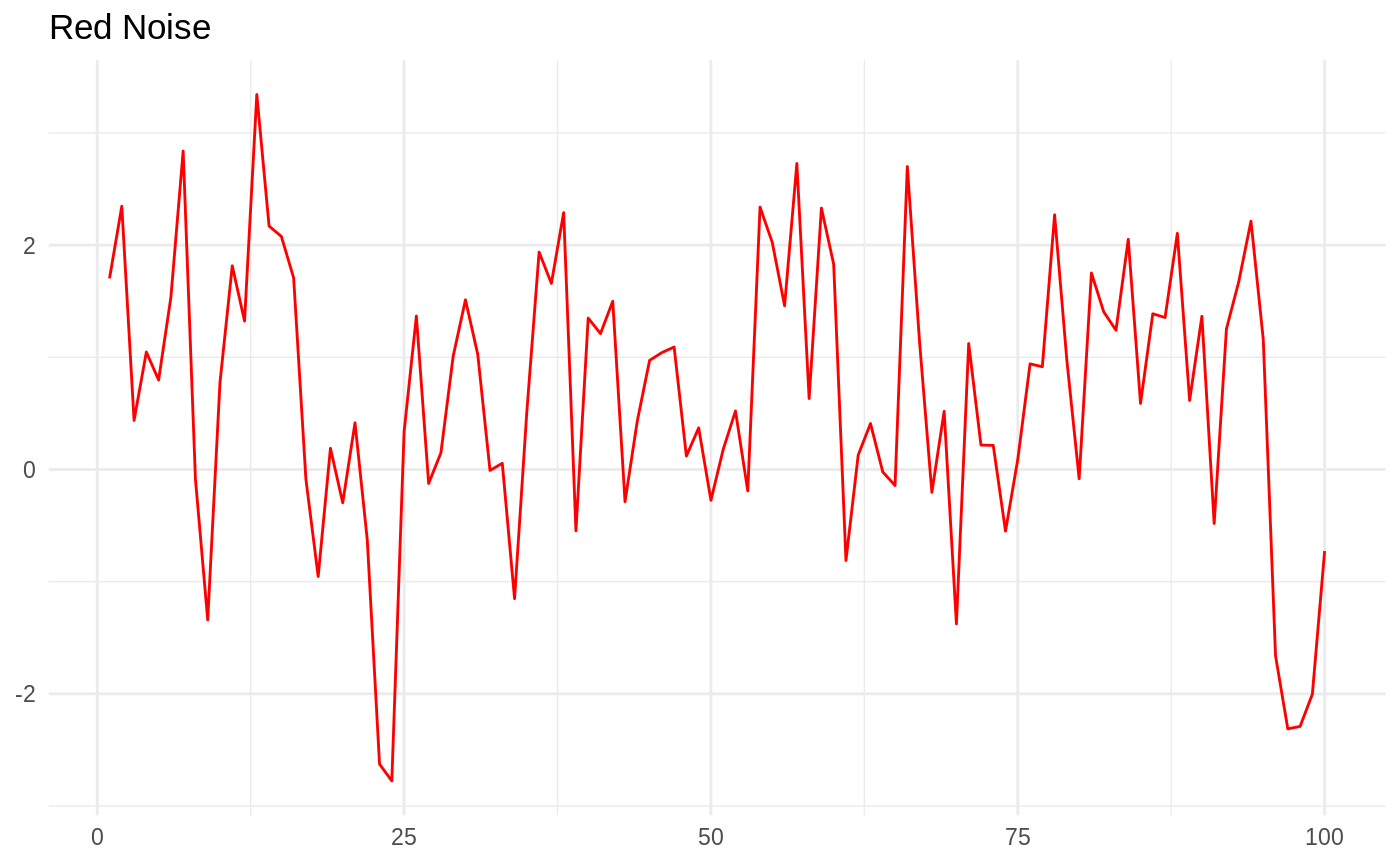
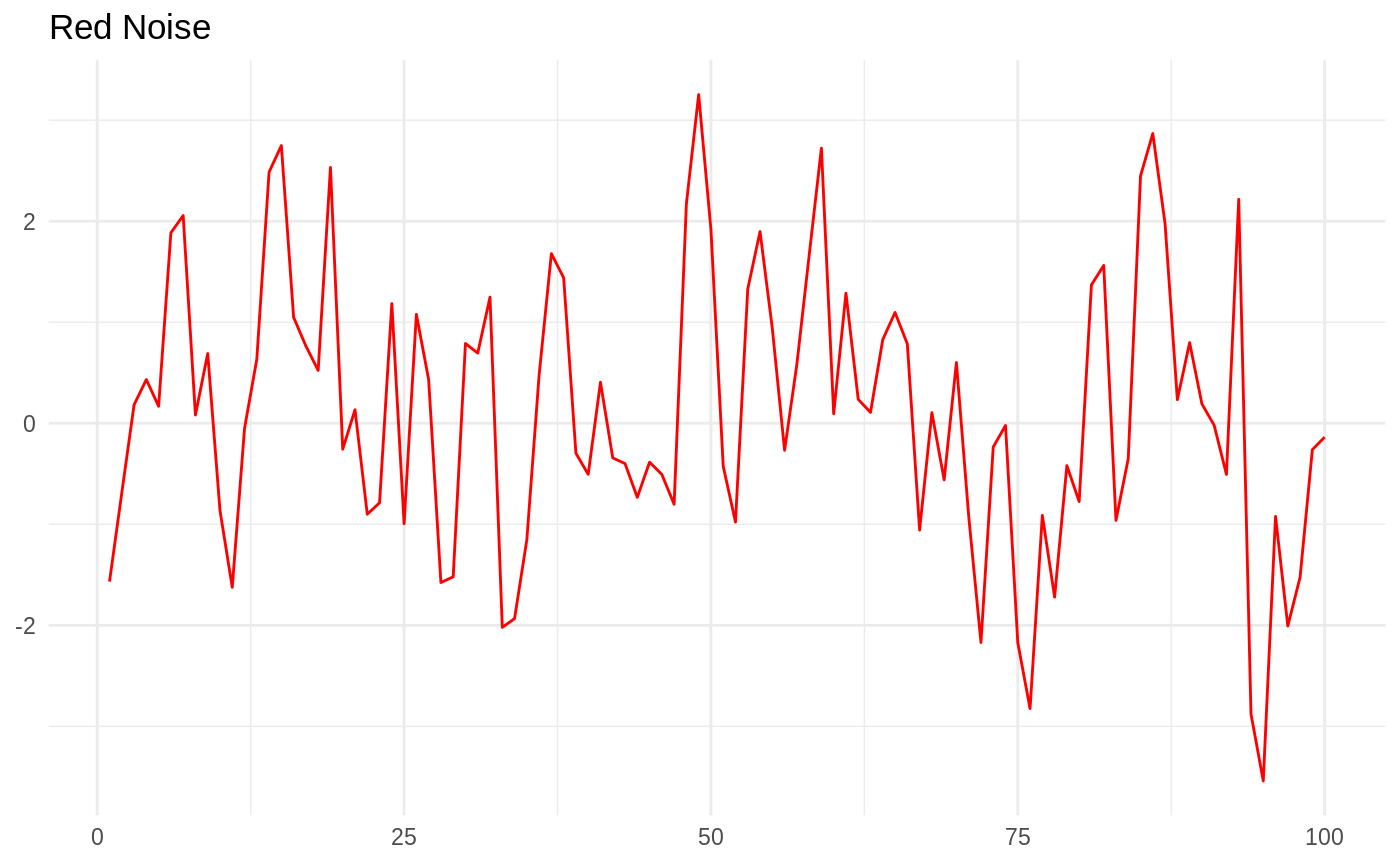
Deploy japilo/colorednoise to github.com/japilo/colorednoise.git:gh-pages

diff --git a/articles/noise.html b/articles/noise.html
@@ -111,12 +111,12 @@
 <p>To show you how you can use this package to simulate and analyze colored noise, I will present a problem for us to solve. Let’s say we want to find out whether our estimates of temporal autocorrelation are biased when the standard deviation of the colored noise is high. First, let’s use the <code>raw_noise</code> function to generate some colored noise with high variance.</p>
 <div class="sourceCode" id="cb1"><pre class="sourceCode r"><code class="sourceCode r"><a class="sourceLine" id="cb1-1" data-line-number="1">red &lt;-<span class="st"> </span><span class="kw">colored_noise</span>(<span class="dt">timesteps =</span> <span class="dv">100</span>, <span class="dt">mean =</span> <span class="fl">0.3</span>, <span class="dt">sd =</span> <span class="fl">1.2</span>, <span class="dt">phi =</span> <span class="fl">0.5</span>)</a>
 <a class="sourceLine" id="cb1-2" data-line-number="2">red[<span class="dv">1</span><span class="op">:</span><span class="dv">10</span>]</a>
-<a class="sourceLine" id="cb1-3" data-line-number="3"><span class="co">#&gt;  [1]  1.70362401  2.34694974  0.43751466  1.04745676  0.79755190</span></a>
-<a class="sourceLine" id="cb1-4" data-line-number="4"><span class="co">#&gt;  [6]  1.53525902  2.83876411 -0.08585461 -1.34069358  0.77593439</span></a>
+<a class="sourceLine" id="cb1-3" data-line-number="3"><span class="co">#&gt;  [1] -1.56704345 -0.68826090  0.18266588  0.43312045  0.16792386</span></a>
+<a class="sourceLine" id="cb1-4" data-line-number="4"><span class="co">#&gt;  [6]  1.88579144  2.05601640  0.08197735  0.69059164 -0.86362016</span></a>
 <a class="sourceLine" id="cb1-5" data-line-number="5">blue &lt;-<span class="st"> </span><span class="kw">colored_noise</span>(<span class="dt">timesteps =</span> <span class="dv">100</span>, <span class="dt">mean =</span> <span class="fl">0.3</span>, <span class="dt">sd =</span> <span class="fl">1.2</span>, <span class="dt">phi =</span> <span class="fl">-0.5</span>)</a>
 <a class="sourceLine" id="cb1-6" data-line-number="6">blue[<span class="dv">1</span><span class="op">:</span><span class="dv">10</span>]</a>
-<a class="sourceLine" id="cb1-7" data-line-number="7"><span class="co">#&gt;  [1]  0.9431504  1.2805295  0.6790968 -0.3431887  0.3299262  1.6379626</span></a>
-<a class="sourceLine" id="cb1-8" data-line-number="8"><span class="co">#&gt;  [7]  1.0859915  0.2894159 -0.3926446  1.8642073</span></a>
+<a class="sourceLine" id="cb1-7" data-line-number="7"><span class="co">#&gt;  [1]  0.12561883 -0.64196662  0.38481636 -0.18185727  0.83415619</span></a>
+<a class="sourceLine" id="cb1-8" data-line-number="8"><span class="co">#&gt;  [6] -0.89441537  0.59986746  0.09081363  0.59708108 -0.28363038</span></a>
 <a class="sourceLine" id="cb1-9" data-line-number="9"><span class="kw">ggplot</span>(<span class="dt">data =</span> <span class="ot">NULL</span>, <span class="kw">aes</span>(<span class="dt">x =</span> <span class="kw"><a href="https://rdrr.io/r/base/c.html">c</a></span>(<span class="dv">1</span><span class="op">:</span><span class="dv">100</span>), <span class="dt">y =</span> blue)) <span class="op">+</span><span class="st"> </span><span class="kw">geom_line</span>(<span class="dt">color=</span><span class="st">"blue"</span>) <span class="op">+</span><span class="st"> </span><span class="kw">theme_minimal</span>() <span class="op">+</span><span class="st"> </span><span class="kw">theme</span>(<span class="dt">axis.title =</span> <span class="kw">element_blank</span>()) <span class="op">+</span><span class="st"> </span><span class="kw">ggtitle</span>(<span class="st">"Blue Noise"</span>)</a></code></pre></div>
 <p><img src="noise_files/figure-html/generate%20noise-1.png" width="700"></p>
 <div class="sourceCode" id="cb2"><pre class="sourceCode r"><code class="sourceCode r"><a class="sourceLine" id="cb2-1" data-line-number="1"><span class="kw">ggplot</span>(<span class="dt">data =</span> <span class="ot">NULL</span>, <span class="kw">aes</span>(<span class="dt">x =</span> <span class="kw"><a href="https://rdrr.io/r/base/c.html">c</a></span>(<span class="dv">1</span><span class="op">:</span><span class="dv">100</span>), <span class="dt">y =</span> red)) <span class="op">+</span><span class="st"> </span><span class="kw">geom_line</span>(<span class="dt">color=</span><span class="st">"red"</span>) <span class="op">+</span><span class="st"> </span><span class="kw">theme_minimal</span>() <span class="op">+</span><span class="st"> </span><span class="kw">theme</span>(<span class="dt">axis.title =</span> <span class="kw">element_blank</span>()) <span class="op">+</span><span class="st"> </span><span class="kw">ggtitle</span>(<span class="st">"Red Noise"</span>)</a></code></pre></div>
@@ -124,22 +124,22 @@
 <p>The red noise and blue noise look the way they should. Now let’s estimate the mean, SD, and autocorrelation of these two sets of random numbers to see how well they match the parameters we used to generate them.</p>
 <div class="sourceCode" id="cb3"><pre class="sourceCode r"><code class="sourceCode r"><a class="sourceLine" id="cb3-1" data-line-number="1"><span class="kw">invoke_map</span>(<span class="kw"><a href="https://rdrr.io/r/base/list.html">list</a></span>(mean, sd, autocorrelation), <span class="kw"><a href="https://rdrr.io/r/base/rep.html">rep</a></span>(<span class="kw"><a href="https://rdrr.io/r/base/list.html">list</a></span>(<span class="kw"><a href="https://rdrr.io/r/base/list.html">list</a></span>(red)), <span class="dv">3</span>))</a>
 <a class="sourceLine" id="cb3-2" data-line-number="2"><span class="co">#&gt; [[1]]</span></a>
-<a class="sourceLine" id="cb3-3" data-line-number="3"><span class="co">#&gt; [1] 0.6629121</span></a>
+<a class="sourceLine" id="cb3-3" data-line-number="3"><span class="co">#&gt; [1] 0.1262413</span></a>
 <a class="sourceLine" id="cb3-4" data-line-number="4"><span class="co">#&gt; </span></a>
 <a class="sourceLine" id="cb3-5" data-line-number="5"><span class="co">#&gt; [[2]]</span></a>
-<a class="sourceLine" id="cb3-6" data-line-number="6"><span class="co">#&gt; [1] 1.243193</span></a>
+<a class="sourceLine" id="cb3-6" data-line-number="6"><span class="co">#&gt; [1] 1.37977</span></a>
 <a class="sourceLine" id="cb3-7" data-line-number="7"><span class="co">#&gt; </span></a>
 <a class="sourceLine" id="cb3-8" data-line-number="8"><span class="co">#&gt; [[3]]</span></a>
-<a class="sourceLine" id="cb3-9" data-line-number="9"><span class="co">#&gt; [1] 0.4641916</span></a>
+<a class="sourceLine" id="cb3-9" data-line-number="9"><span class="co">#&gt; [1] 0.4376255</span></a>
 <a class="sourceLine" id="cb3-10" data-line-number="10"><span class="kw">invoke_map</span>(<span class="kw"><a href="https://rdrr.io/r/base/list.html">list</a></span>(mean, sd, autocorrelation), <span class="kw"><a href="https://rdrr.io/r/base/rep.html">rep</a></span>(<span class="kw"><a href="https://rdrr.io/r/base/list.html">list</a></span>(<span class="kw"><a href="https://rdrr.io/r/base/list.html">list</a></span>(blue)), <span class="dv">3</span>))</a>
 <a class="sourceLine" id="cb3-11" data-line-number="11"><span class="co">#&gt; [[1]]</span></a>
-<a class="sourceLine" id="cb3-12" data-line-number="12"><span class="co">#&gt; [1] 0.2332764</span></a>
+<a class="sourceLine" id="cb3-12" data-line-number="12"><span class="co">#&gt; [1] 0.4210141</span></a>
 <a class="sourceLine" id="cb3-13" data-line-number="13"><span class="co">#&gt; </span></a>
 <a class="sourceLine" id="cb3-14" data-line-number="14"><span class="co">#&gt; [[2]]</span></a>
-<a class="sourceLine" id="cb3-15" data-line-number="15"><span class="co">#&gt; [1] 1.167243</span></a>
+<a class="sourceLine" id="cb3-15" data-line-number="15"><span class="co">#&gt; [1] 1.370266</span></a>
 <a class="sourceLine" id="cb3-16" data-line-number="16"><span class="co">#&gt; </span></a>
 <a class="sourceLine" id="cb3-17" data-line-number="17"><span class="co">#&gt; [[3]]</span></a>
-<a class="sourceLine" id="cb3-18" data-line-number="18"><span class="co">#&gt; [1] -0.4601847</span></a></code></pre></div>
+<a class="sourceLine" id="cb3-18" data-line-number="18"><span class="co">#&gt; [1] -0.5977475</span></a></code></pre></div>
 <p>The estimates for these seem to be quite accurate. But let’s try generating a whole lot of colored noise across a range of variance and color and estimating the autocorrelation of each replicate.</p>
 <div class="sourceCode" id="cb4"><pre class="sourceCode r"><code class="sourceCode r"><a class="sourceLine" id="cb4-1" data-line-number="1">raw_sims &lt;-<span class="st"> </span><span class="kw">cross_df</span>(<span class="kw"><a href="https://rdrr.io/r/base/list.html">list</a></span>(<span class="dt">timesteps =</span> <span class="dv">20</span>, <span class="dt">phi =</span> <span class="kw"><a href="https://rdrr.io/r/base/c.html">c</a></span>(<span class="op">-</span><span class="fl">0.5</span>, <span class="dv">0</span>, <span class="fl">0.5</span>), <span class="dt">mean =</span> <span class="fl">0.3</span>, <span class="dt">sd =</span> <span class="kw"><a href="https://rdrr.io/r/base/c.html">c</a></span>(<span class="fl">0.5</span>, <span class="fl">0.7</span>, <span class="fl">0.9</span>, <span class="fl">1.1</span>, <span class="fl">1.3</span>, <span class="fl">1.5</span>))) <span class="op">%&gt;%</span><span class="st"> </span><span class="kw">rerun</span>(<span class="dt">.n =</span> <span class="dv">30</span>, <span class="kw">pmap</span>(., colored_noise))</a>
 <a class="sourceLine" id="cb4-2" data-line-number="2">labels &lt;-<span class="st"> </span>raw_sims <span class="op">%&gt;%</span><span class="st"> </span><span class="kw">map</span>(<span class="dv">1</span>) <span class="op">%&gt;%</span><span class="st"> </span><span class="kw">bind_rows</span>()</a>
@@ -148,12 +148,12 @@
 <a class="sourceLine" id="cb4-5" data-line-number="5">sd_range &lt;-<span class="st"> </span><span class="kw"><a href="https://rdrr.io/r/base/cbind.html">cbind</a></span>(labels, estimates)</a>
 <a class="sourceLine" id="cb4-6" data-line-number="6"><span class="kw"><a href="https://rdrr.io/r/utils/head.html">head</a></span>(sd_range)</a>
 <a class="sourceLine" id="cb4-7" data-line-number="7"><span class="co">#&gt;   timesteps  phi mean  sd        mu     sigma autocorrelation</span></a>
-<a class="sourceLine" id="cb4-8" data-line-number="8"><span class="co">#&gt; 1        20 -0.5  0.3 0.5 0.2281089 0.5271664     -0.44815307</span></a>
-<a class="sourceLine" id="cb4-9" data-line-number="9"><span class="co">#&gt; 2        20  0.0  0.3 0.5 0.2795650 0.5757885     -0.45937265</span></a>
-<a class="sourceLine" id="cb4-10" data-line-number="10"><span class="co">#&gt; 3        20  0.5  0.3 0.5 0.5029182 0.4342543      0.37841337</span></a>
-<a class="sourceLine" id="cb4-11" data-line-number="11"><span class="co">#&gt; 4        20 -0.5  0.3 0.7 0.3611820 0.4848390     -0.02416496</span></a>
-<a class="sourceLine" id="cb4-12" data-line-number="12"><span class="co">#&gt; 5        20  0.0  0.3 0.7 0.1010648 0.7357687      0.01916940</span></a>
-<a class="sourceLine" id="cb4-13" data-line-number="13"><span class="co">#&gt; 6        20  0.5  0.3 0.7 0.4711500 0.6945101      0.60622514</span></a></code></pre></div>
+<a class="sourceLine" id="cb4-8" data-line-number="8"><span class="co">#&gt; 1        20 -0.5  0.3 0.5 0.3381583 0.3885711      -0.1978481</span></a>
+<a class="sourceLine" id="cb4-9" data-line-number="9"><span class="co">#&gt; 2        20  0.0  0.3 0.5 0.1724872 0.4396784      -0.1085557</span></a>
+<a class="sourceLine" id="cb4-10" data-line-number="10"><span class="co">#&gt; 3        20  0.5  0.3 0.5 0.2087391 0.3694396       0.3288899</span></a>
+<a class="sourceLine" id="cb4-11" data-line-number="11"><span class="co">#&gt; 4        20 -0.5  0.3 0.7 0.2625164 0.8140242      -0.7220923</span></a>
+<a class="sourceLine" id="cb4-12" data-line-number="12"><span class="co">#&gt; 5        20  0.0  0.3 0.7 0.2097402 0.6135596      -0.4849171</span></a>
+<a class="sourceLine" id="cb4-13" data-line-number="13"><span class="co">#&gt; 6        20  0.5  0.3 0.7 0.4902730 0.5766493       0.3412923</span></a></code></pre></div>
 <p>We can visualize these results by finding the mean and confidence intervals of the autocorrelation estimates for each combination of variance and noise color, and plotting them out.</p>
 <div class="sourceCode" id="cb5"><pre class="sourceCode r"><code class="sourceCode r"><a class="sourceLine" id="cb5-1" data-line-number="1">sd_range <span class="op">%&gt;%</span><span class="st"> </span><span class="kw">group_by</span>(phi, sd) <span class="op">%&gt;%</span><span class="st"> </span><span class="kw">summarize_at</span>(<span class="kw">funs</span>(<span class="dt">lower.ci =</span> ((<span class="cf">function</span>(bar){<span class="kw"><a href="https://rdrr.io/r/stats/quantile.html">quantile</a></span>(bar, <span class="dt">probs=</span><span class="kw"><a href="https://rdrr.io/r/base/c.html">c</a></span>(<span class="fl">0.05</span>, <span class="fl">0.95</span>))[[<span class="dv">1</span>]]})(.)),</a>
 <a class="sourceLine" id="cb5-2" data-line-number="2">           <span class="dt">upper.ci =</span> ((<span class="cf">function</span>(bar){<span class="kw"><a href="https://rdrr.io/r/stats/quantile.html">quantile</a></span>(bar, <span class="dt">probs=</span><span class="kw"><a href="https://rdrr.io/r/base/c.html">c</a></span>(<span class="fl">0.05</span>, <span class="fl">0.95</span>))[[<span class="dv">2</span>]]})(.)),</a>
